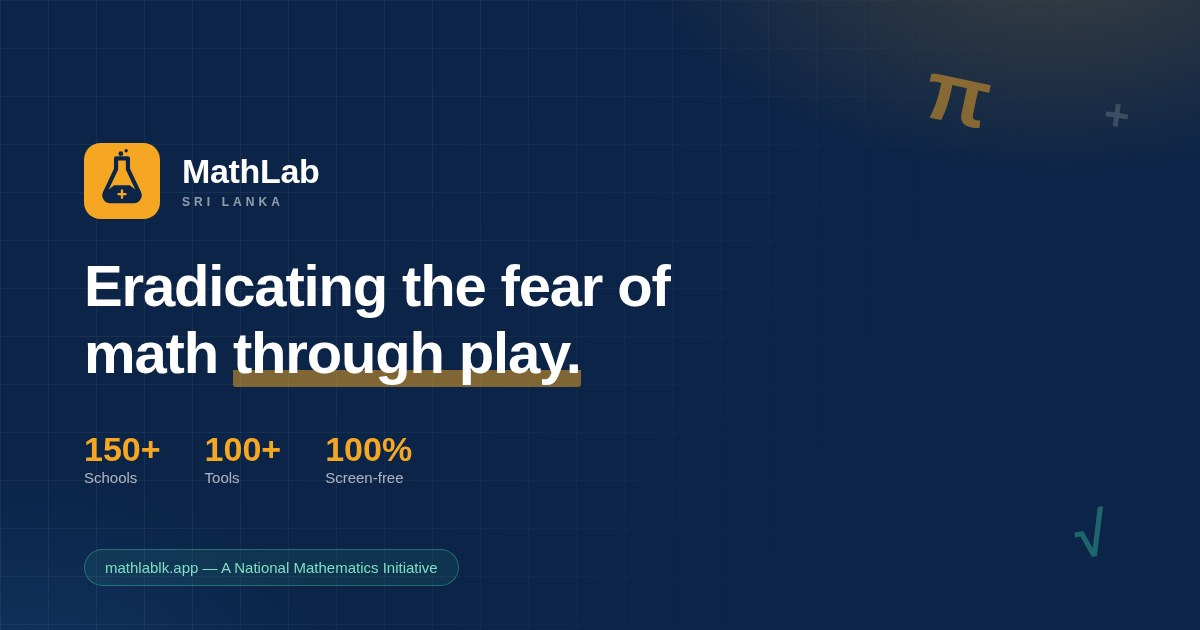
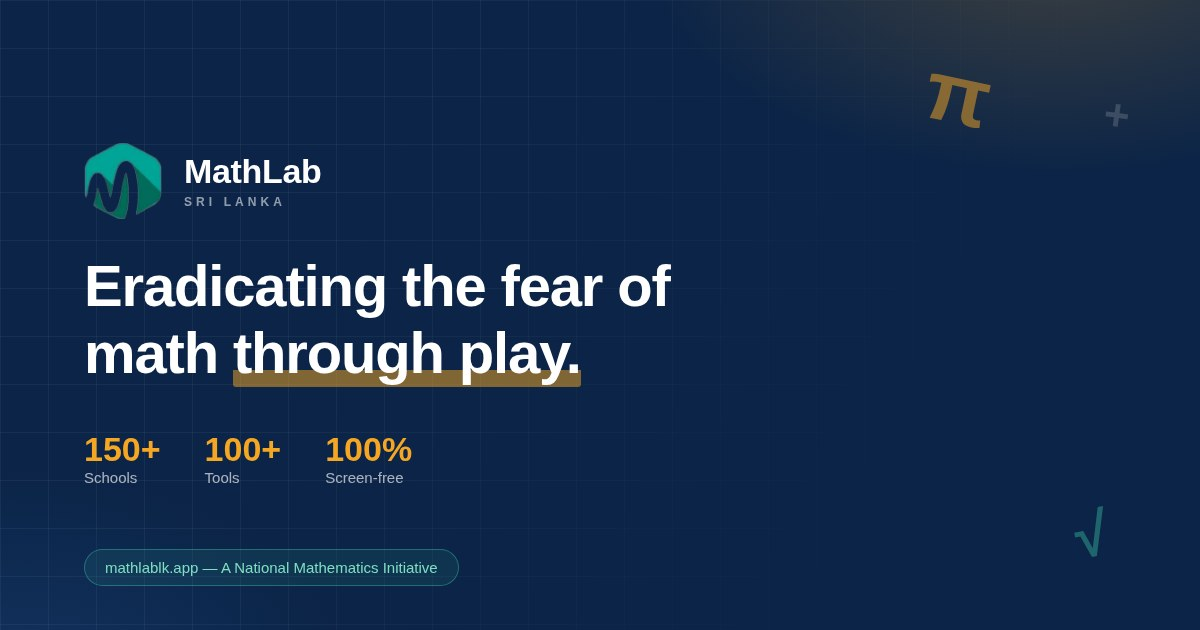
Swap in official brand assets from the MathLab Facebook page
- Nav mark, favicon, apple-touch-icon and og-cover now use the official
  teal hexagon-M logo (extracted from the page's profile picture,
  background removed to transparent PNG)
- Footer shows the full official lockup on a white chip
- Impact cards 02/03 use authentic photos from a Commercial Bank CSR
  workshop (students session + tools table) instead of stock stand-ins
- Removed placeholder flask favicon.svg; README documents the swap and
  the remaining pre-launch assets (founder photo, partner logos, gallery)

Changed region(s): [[0.0617, 0.2111, 0.2775, 0.3619]]

diff --git a/src/components/Logo.jsx b/src/components/Logo.jsx
@@ -2,44 +2,51 @@ import React from 'react'
 import { SITE } from '../config.js'
 
 /**
- * MathLab brand mark — a flask (the "Lab") with rising bubbles and a plus sign.
- * Same artwork as /favicon.svg.
+ * Official Maths Lab Sri Lanka brand assets, sourced from the organisation's
+ * Facebook page (public profile picture) and processed to transparent PNGs:
+ *   /images/logo-hex.png    — hexagon-“M” mark (nav, favicon, og-cover)
+ *   /images/logo-lockup.png — full stacked lockup (footer, light surfaces)
  */
+const HEX_AR = 174 / 170   // width / height of the hexagon mark
+const LOCK_AR = 291 / 245  // width / height of the full lockup
+
+/** Official hexagon mark. */
 export function LogoMark({ size = 40, className = '' }) {
   return (
-    <svg
-      width={size}
+    <img
+      src="/images/logo-hex.png"
+      alt=""
+      width={Math.round(size * HEX_AR)}
       height={size}
-      viewBox="0 0 64 64"
-      className={className}
-      role="img"
-      aria-label="MathLab logo"
-    >
-      <rect width="64" height="64" rx="14" fill="#0B2447" />
-      <path
-        d="M27 13 h10 v9 l9.2 19.5 a5 5 0 0 1 -4.4 7.5 H22.2 a5 5 0 0 1 -4.4 -7.5 L27 22 z"
-        fill="none" stroke="#F5A623" strokeWidth="3" strokeLinejoin="round"
-      />
-      <path
-        d="M25.5 35.5 L17.8 41.5 a5 5 0 0 0 4.4 7.5 h19.6 a5 5 0 0 0 4.4 -7.5 L38.5 35.5 z"
-        fill="#F5A623"
-      />
-      <circle cx="31" cy="9" r="2" fill="#3EC9A7" />
-      <circle cx="35.5" cy="6.5" r="1.4" fill="#F5A623" />
-      <path d="M32 40 v6 M29 43 h6" stroke="#FFFFFF" strokeWidth="1.8" strokeLinecap="round" />
-    </svg>
+      className={`logo-mark ${className}`}
+      draggable={false}
+    />
   )
 }
 
-/** Full lockup: mark + wordmark. `dark` renders light text for dark backgrounds. */
-export function Logo({ dark = false, size = 42 }) {
+/** Nav lockup: official hexagon mark + site wordmark. */
+export function Logo({ size = 42 }) {
   return (
-    <a href="#top" className={`logo ${dark ? 'logo--dark' : ''}`} aria-label={`${SITE.name} — home`}>
+    <a href="#top" className="logo" aria-label={`${SITE.name} — home`}>
       <LogoMark size={size} />
       <span className="logo-text">
         <span className="logo-name">MathLab</span>
         <span className="logo-sub">Sri Lanka</span>
       </span>
     </a>
+  )
+}
+
+/** Full official stacked lockup — use on light surfaces (e.g. footer chip). */
+export function LogoLockup({ height = 112, className = '' }) {
+  return (
+    <img
+      src="/images/logo-lockup.png"
+      alt="Maths Lab Sri Lanka"
+      width={Math.round(height * LOCK_AR)}
+      height={height}
+      className={className}
+      draggable={false}
+    />
   )
 }

diff --git a/src/components/Impact.jsx b/src/components/Impact.jsx
@@ -16,8 +16,8 @@ const CARDS = [
   {
     num: '02',
     tag: 'Island-wide reach',
-    img: '/images/workshop-teacher.jpg',
-    alt: 'A teacher guiding uniformed students through a MathLab learning activity',
+    img: '/images/csr-session.jpg',
+    alt: 'Students at a MathLab session donated through the Commercial Bank CSR Trust',
     title: 'Corporate CSR Partnerships',
     text: 'Proudly partnering with organizations such as the Commercial Bank CSR Trust to donate complete MathLab environments to underprivileged schools across Sri Lanka.',
     cta: 'Partner with us',
@@ -26,8 +26,8 @@ const CARDS = [
   {
     num: '03',
     tag: '100+ tools',
-    img: '/images/tactile-tools.jpg',
-    alt: 'Hands-on math learning aids — tactile counting and number tools',
+    img: '/images/tools-table.jpg',
+    alt: 'A full MathLab toolkit — physical games and manipulatives made with Imashi Publications',
     title: '100+ Educational Tools',
     text: 'A vast curriculum of physical learning aids, manufactured in partnership with Imashi Publications, designed to make abstract mathematical concepts tangible.',
     cta: 'See them in action',

diff --git a/src/components/Footer.jsx b/src/components/Footer.jsx
@@ -1,5 +1,5 @@
 import React from 'react'
-import { Logo } from './Logo.jsx'
+import { LogoLockup } from './Logo.jsx'
 import { NAV_LINKS, SITE, CONTACT } from '../config.js'
 
 export default function Footer() {
@@ -8,7 +8,9 @@ export default function Footer() {
       <div className="container">
         <div className="footer-top">
           <div className="footer-brand">
-            <Logo dark size={44} />
+            <span className="footer-logo-chip">
+              <LogoLockup height={112} />
+            </span>
             <p>{SITE.tagline}</p>
           </div>
 

diff --git a/src/styles/sections.css b/src/styles/sections.css
@@ -1048,6 +1048,23 @@
   color: rgba(255, 255, 255, 0.5);
 }
 
+/* Official logo lockup on a light chip (real brand asset from the FB page) */
+.footer-logo-chip {
+  display: inline-flex;
+  align-items: center;
+  justify-content: center;
+  background: #FFFFFF;
+  border-radius: 18px;
+  padding: 18px 22px;
+  box-shadow: 0 14px 36px rgba(0, 0, 0, 0.28);
+}
+
+.footer-logo-chip img {
+  display: block;
+  height: 112px;
+  width: auto;
+}
+
 .footer-nav {
   display: flex;
   flex-direction: column;

diff --git a/index.html b/index.html
@@ -28,7 +28,7 @@
     <meta name="twitter:image" content="https://mathlablk.app/images/og-cover.jpg" />
 
     <!-- Icons -->
-    <link rel="icon" type="image/svg+xml" href="/favicon.svg" />
+    <link rel="icon" type="image/png" sizes="48x48" href="/favicon.png" />
     <link rel="apple-touch-icon" href="/apple-touch-icon.png" />
 
     <!-- Fonts -->

diff --git a/src/styles/base.css b/src/styles/base.css
@@ -390,6 +390,13 @@ a { color: inherit; }
   flex: none;
 }
 
+.logo .logo-mark {
+  display: block;
+  width: auto;
+  height: 42px;
+  filter: drop-shadow(0 2px 8px rgba(11, 36, 71, 0.18));
+}
+
 .logo-name {
   display: block;
   font-family: var(--font-display);

diff --git a/README.md b/README.md
@@ -48,6 +48,16 @@ output `dist`).
 
 ---
 
+## ✅ Done — real brand assets live
+
+Official brand assets sourced from the MathLab Facebook page
+(facebook.com/mathslabsl) are now integrated:
+
+- **Logo** — the official teal hexagon-“M” mark (nav, favicon, og-cover) and the
+  full stacked lockup (footer) replace the placeholder flask mark.
+- **Photos** — Impact section now carries two authentic photos from a Commercial
+  Bank CSR workshop (`csr-session.jpg`, `tools-table.jpg`).
+
 ## ⚠ Before going live — replace placeholders
 
 All site content is centralised in **`src/config.js`**:
@@ -73,12 +83,17 @@ Also recommended before launch:
    `src/components/Testimonials.jsx` with real photos/video from the
    Kuliyapitiya Holy Angels Girls' College workshop.
 
+> Tip: Facebook post photos are login-walled for scrapers. To hand them over,
+   either upload the files directly, or right-click a photo on the page →
+   *Copy image address* → paste the `scontent…` link here (those CDN links are
+   fetchable without login).
+
 ## Where things live
 
 ```
 ├── public/               # static assets copied as-is to dist/
-│   ├── images/           # hero, workshop, tools, gallery photos + og-cover.jpg
-│   ├── favicon.svg       # brand mark (flask)
+│   ├── images/           # photos + brand assets (logo-hex, logo-lockup, csr-session, tools-table, og-cover)
+│   ├── favicon.png       # official hexagon mark (48px)
 │   └── apple-touch-icon.png
 ├── src/
 │   ├── config.js         # ⭐ all editable site data (contact, stats, partners)
